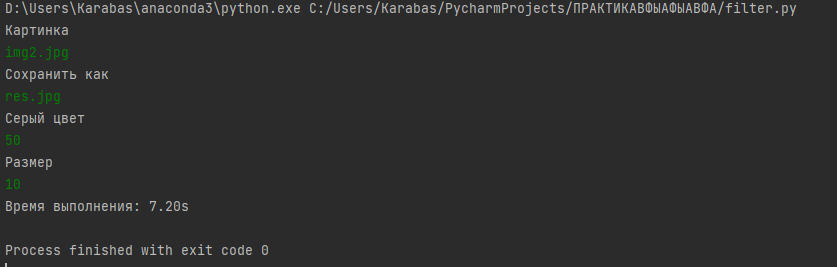
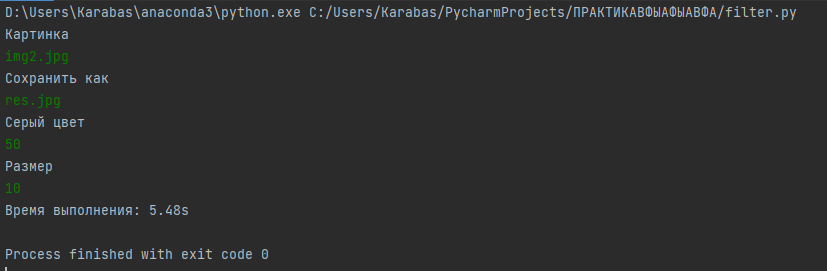
вафафвы

diff --git a/old_filter.py b/old_filter.py
@@ -1,4 +1,3 @@
-<<<<<<< HEAD
 from PIL import Image
 import numpy as np
 import time
@@ -30,33 +29,3 @@ while i < a:
 res = Image.fromarray(arr)
 res.save('res.jpg')
 print("Время выполнения: {:.2f}s".format(time.time() - start_time))
-=======
-from PIL import Image
-import numpy as np
-img = Image.open("img2.jpg")
-arr = np.array(img)
-a = len(arr)
-a1 = len(arr[1])
-i = 0
-while i < a - 11:
-    j = 0
-    while j < a1 - 11:
-        s = 0
-        for n in range(i, i + 10):
-            for n1 in range(j, j + 10):
-                n1 = arr[n][n1][0]
-                n2 = arr[n][n1][1]
-                n3 = arr[n][n1][2]
-                M = n1 + n2 + n3
-                s += M
-        s = int(s // 100)
-        for n in range(i, i + 10):
-            for n1 in range(j, j + 10):
-                arr[n][n1][0] = int(s // 50) * 50
-                arr[n][n1][1] = int(s // 50) * 50
-                arr[n][n1][2] = int(s // 50) * 50
-        j = j + 10
-    i = i + 10
-res = Image.fromarray(arr)
-res.save('res.jpg')
->>>>>>> origin/master
